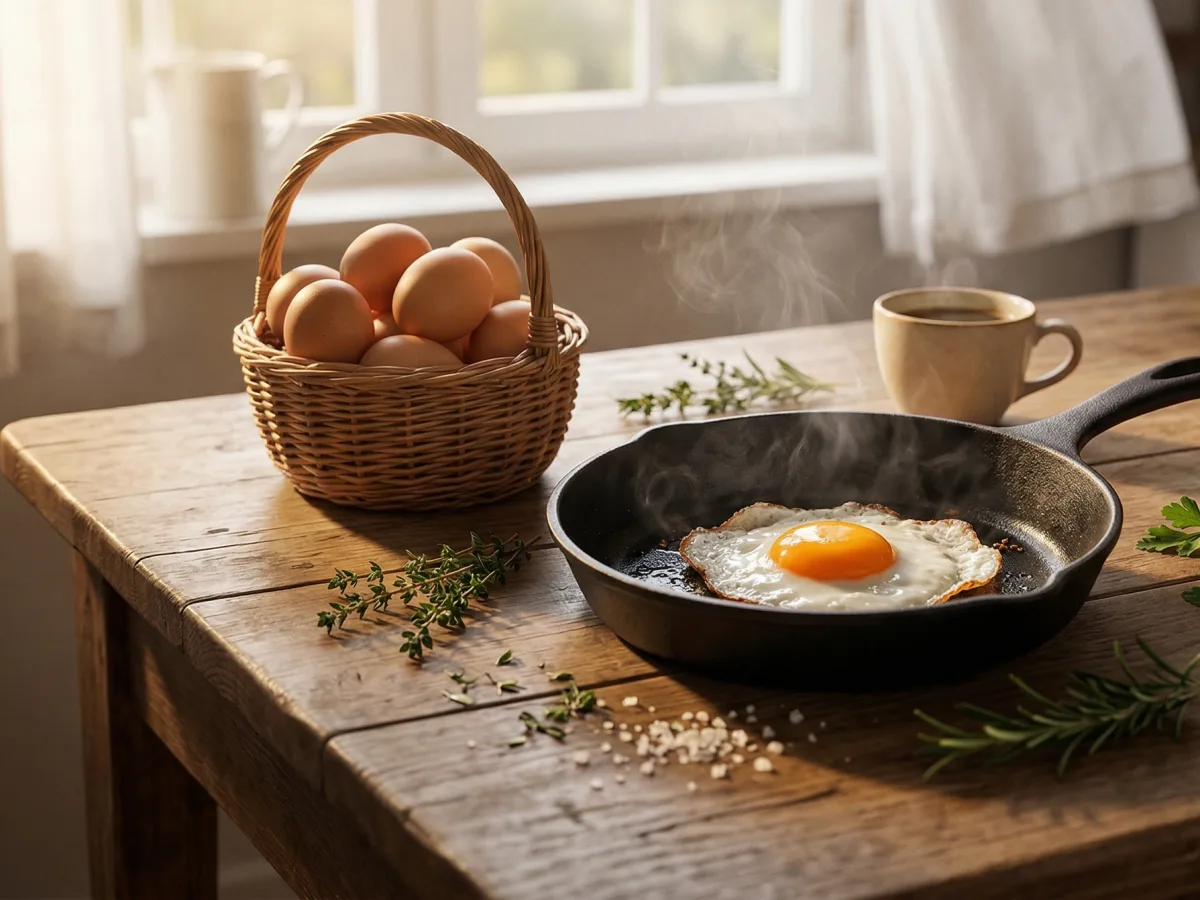
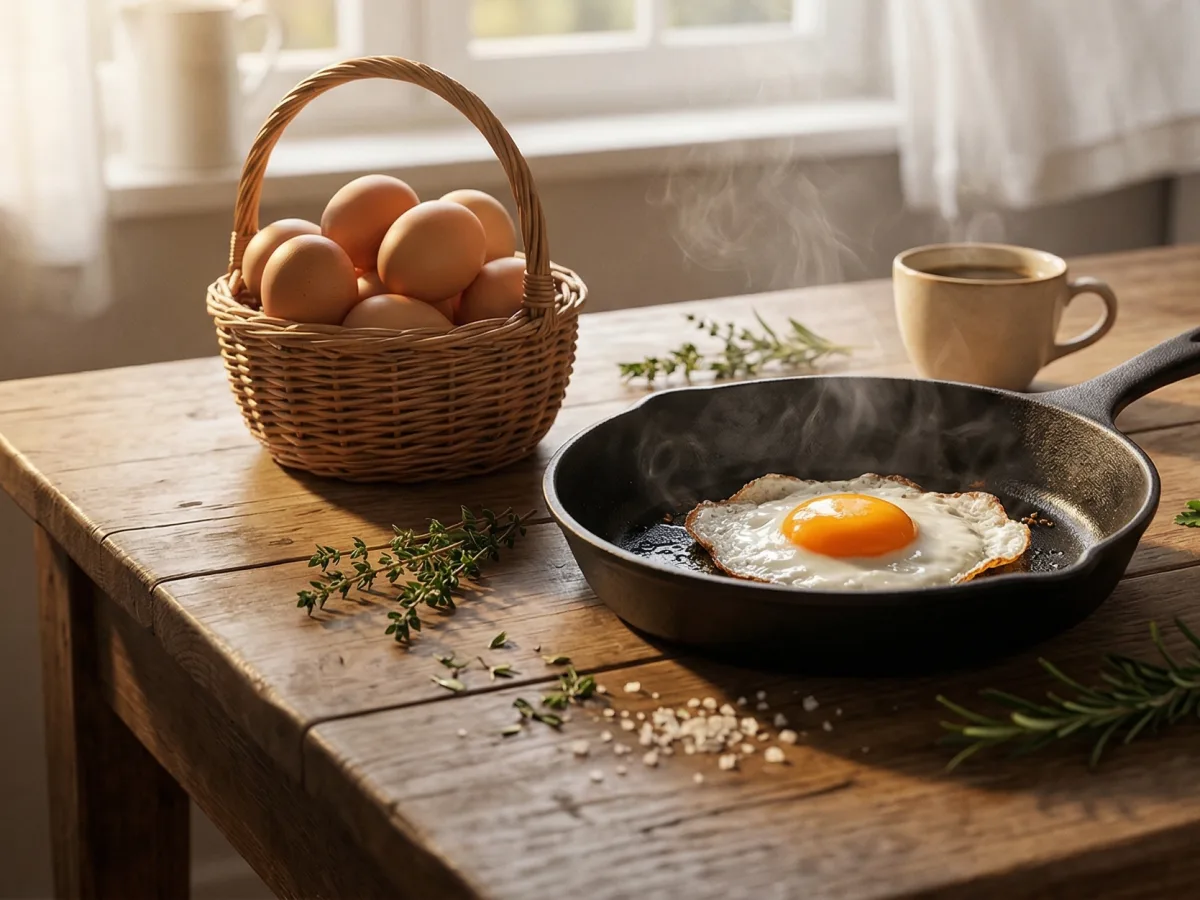
fix: replace story section images with properly cropped 4:3 versions
- story-selection.webp: new source image (seleccion2.png) cropped to avoid text overlays
- story-table.webp: more aggressive crop starting below text overlay area
- StorySection.tsx: reset Selección imagePosition to 'center center' (new image is clean 4:3)

diff --git a/src/components/sections/StorySection.tsx b/src/components/sections/StorySection.tsx
@@ -30,7 +30,7 @@ const PANELS: StoryPanel[] = [
       'Un proceso de clasificaci\u00f3n riguroso donde cada huevo es inspeccionado a mano. Solo los mejores pasan el control de calidad.',
     imageSrc: '/images/hero/story-selection.webp',
     imageAlt: 'Huevos siendo clasificados por tama\u00f1o y calidad',
-    imagePosition: 'center 75%',
+    imagePosition: 'center center',
     stat: { value: '2.400+', label: 'huevos seleccionados por d\u00eda' },
   },
   {
